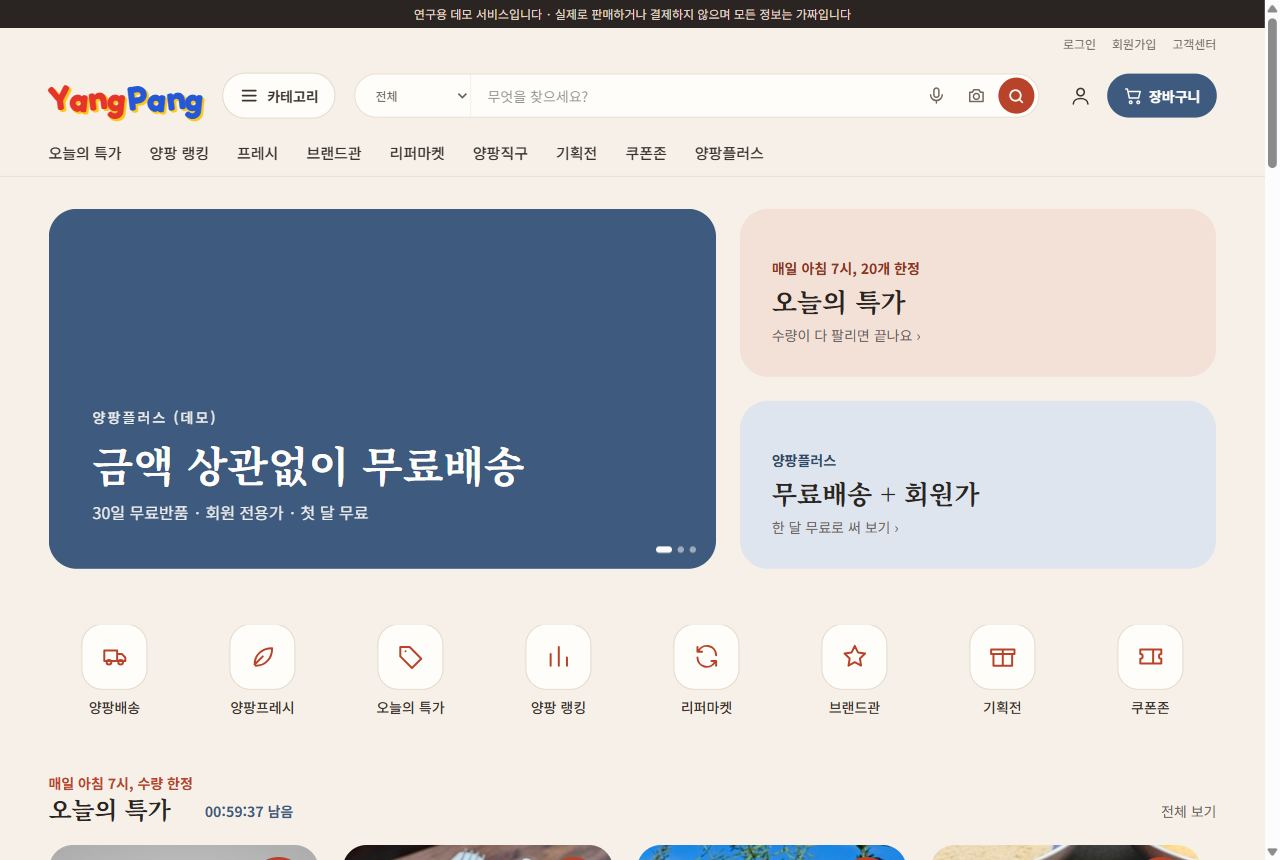
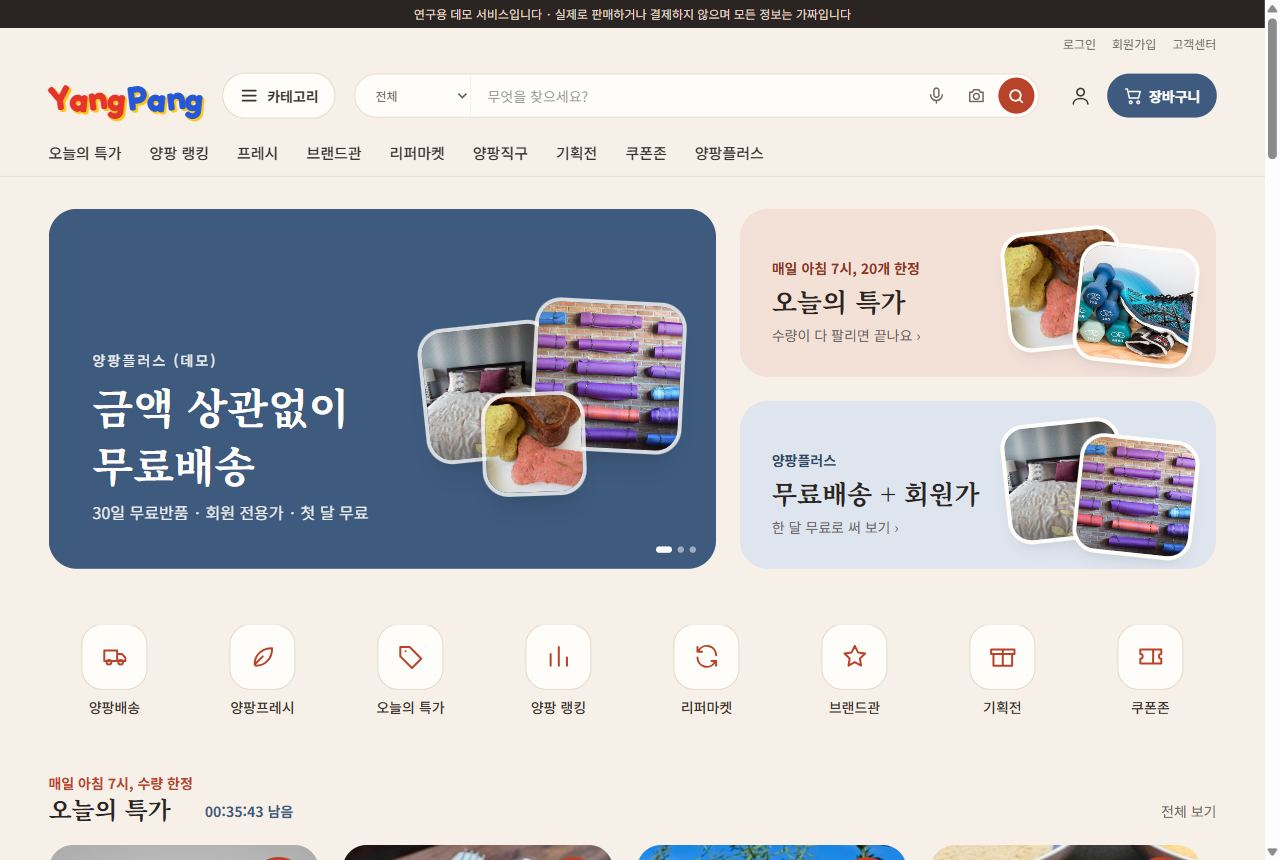
글자만 있던 자리에 상품 사진 (배너·카테고리·기획전·브랜드·전문관 머리)
- Visuals(@visuals): 연결된 실제 상품 사진을 골라 씀 (배너 링크·기획전·브랜드·대분류별), 중복 없이, 19세 상품 제외, 10분 캐시
- 홈: 큰 배너 펼친 사진, 특가·플러스 카드 사진, 카테고리 사진 타일, 기획전 카드 사진 띠
- 기획전 목록·상세, 브랜드관·브랜드 상세, 플러스·프레시·직구·리퍼 머리에 사진
- 공통 조각 fragments/visual (fan·strip·row)
- 어색한 강아지 간식 사진 1장 제외 (473장), README 스크린샷 갱신·추가

diff --git a/api/src/main/resources/templates/home.html b/api/src/main/resources/templates/home.html
@@ -14,25 +14,41 @@
         <div class="grid gap-4 md:grid-cols-[7fr_5fr] md:gap-6">
             <div class="relative overflow-hidden rounded-[26px] md:rounded-[28px]" data-carousel>
                 <div class="no-scrollbar flex snap-x snap-mandatory overflow-x-auto scroll-smooth" data-carousel-track>
-                    <a th:each="b : ${banners}" th:href="${b.linkUrl}"
-                       class="flex h-52 w-full shrink-0 snap-start flex-col justify-end bg-gradient-to-r p-6 text-white md:h-[360px] md:p-11" th:classappend="${b.theme.gradient()}">
-                        <p th:if="${b.caption != null}" class="text-xs font-medium tracking-[0.15em] opacity-90 md:text-sm" th:text="${b.caption}">문구</p>
-                        <p class="mt-2 font-serif text-[26px] font-bold leading-snug md:text-[42px]" th:text="${b.title}">제목</p>
-                        <p th:if="${b.subtitle != null}" class="mt-2 text-sm opacity-90 md:text-base" th:text="${b.subtitle}">설명</p>
+                    <a th:each="b : ${banners}" th:href="${b.linkUrl}" th:with="pics=${@visuals.forLink(b.linkUrl, 3)}"
+                       class="relative flex h-52 w-full shrink-0 snap-start items-end overflow-hidden bg-gradient-to-r p-6 text-white md:h-[360px] md:p-11" th:classappend="${b.theme.gradient()}">
+                        <!-- 배너가 가리키는 곳의 상품 사진 (PC: 펼친 카드 3장, 모바일: 한 장) -->
+                        <div class="absolute right-10 top-1/2 hidden -translate-y-1/2 lg:block"><div th:replace="~{fragments/visual :: fan(${pics}, 'md')}"></div></div>
+                        <img th:if="${!#lists.isEmpty(pics)}" th:src="${pics[0]}" alt="" aria-hidden="true" loading="lazy"
+                             class="absolute -right-4 -top-3 h-32 w-32 rotate-6 rounded-[22px] object-cover opacity-95 shadow-xl ring-4 ring-white/70 lg:hidden">
+                        <div class="relative max-w-[62%] lg:max-w-[48%]">
+                            <p th:if="${b.caption != null}" class="text-xs font-medium tracking-[0.15em] opacity-90 md:text-sm" th:text="${b.caption}">문구</p>
+                            <p class="mt-2 font-serif text-[26px] font-bold leading-snug md:text-[42px]" th:text="${b.title}">제목</p>
+                            <p th:if="${b.subtitle != null}" class="mt-2 text-sm opacity-90 md:text-base" th:text="${b.subtitle}">설명</p>
+                        </div>
                     </a>
                 </div>
                 <div class="absolute bottom-4 right-5 flex gap-1.5" data-carousel-dots></div>
             </div>
             <div class="hidden grid-rows-2 gap-6 md:grid">
-                <a th:href="@{/deals}" class="flex flex-col justify-end rounded-[28px] bg-brand-100 p-8 hover:bg-brand-200/60">
-                    <span class="text-sm font-bold text-brand-700">매일 아침 7시, 20개 한정</span>
-                    <span class="mt-1 font-serif text-[26px] font-bold text-gray-900">오늘의 특가</span>
-                    <span class="mt-1 text-sm text-gray-600">수량이 다 팔리면 끝나요 ›</span>
+                <a th:href="@{/deals}" class="group relative flex flex-col justify-end overflow-hidden rounded-[28px] bg-brand-100 p-8 hover:bg-brand-200/60">
+                    <th:block th:with="pics=${@visuals.forLink('/deals', 2)}">
+                        <img th:each="u, st : ${pics}" th:src="${u}" alt="" aria-hidden="true" loading="lazy"
+                             class="absolute h-28 w-28 rounded-[20px] object-cover shadow-lg ring-4 ring-white transition group-hover:rotate-0"
+                             th:classappend="${st.first} ? 'right-24 top-6 -rotate-6' : 'right-6 top-10 rotate-6'">
+                    </th:block>
+                    <span class="relative text-sm font-bold text-brand-700">매일 아침 7시, 20개 한정</span>
+                    <span class="relative mt-1 font-serif text-[26px] font-bold text-gray-900">오늘의 특가</span>
+                    <span class="relative mt-1 text-sm text-gray-600">수량이 다 팔리면 끝나요 ›</span>
                 </a>
-                <a th:href="@{/plus}" class="flex flex-col justify-end rounded-[28px] bg-sea-100 p-8 hover:bg-sea-200/60">
-                    <span class="text-sm font-bold text-sea-700">양팡플러스</span>
-                    <span class="mt-1 font-serif text-[26px] font-bold text-gray-900">무료배송 + 회원가</span>
-                    <span class="mt-1 text-sm text-gray-600">한 달 무료로 써 보기 ›</span>
+                <a th:href="@{/plus}" class="group relative flex flex-col justify-end overflow-hidden rounded-[28px] bg-sea-100 p-8 hover:bg-sea-200/60">
+                    <th:block th:with="pics=${@visuals.forLink('/plus', 2)}">
+                        <img th:each="u, st : ${pics}" th:src="${u}" alt="" aria-hidden="true" loading="lazy"
+                             class="absolute h-28 w-28 rounded-[20px] object-cover shadow-lg ring-4 ring-white transition group-hover:rotate-0"
+                             th:classappend="${st.first} ? 'right-24 top-6 -rotate-6' : 'right-6 top-10 rotate-6'">
+                    </th:block>
+                    <span class="relative text-sm font-bold text-sea-700">양팡플러스</span>
+                    <span class="relative mt-1 font-serif text-[26px] font-bold text-gray-900">무료배송 + 회원가</span>
+                    <span class="relative mt-1 text-sm text-gray-600">한 달 무료로 써 보기 ›</span>
                 </a>
             </div>
         </div>
@@ -88,9 +104,15 @@
     <!-- 카테고리 바로가기 -->
     <th:block th:case="'CATEGORIES'"><section class="container-page mb-12 md:mb-16" aria-labelledby="home-cats">
         <h2 id="home-cats" class="section-title mb-4" th:text="${s.title}">카테고리</h2>
-        <div class="no-scrollbar -mx-4 flex gap-2 overflow-x-auto px-4 pb-1 md:mx-0 md:flex-wrap md:px-0">
-            <a th:each="top : ${categoryRoots}" th:href="@{/category/{id}(id=${top.id})}" th:text="${top.name}"
-               class="shrink-0 rounded-full bg-white px-4 py-2 text-sm text-gray-800 ring-1 ring-gray-200 hover:text-brand-700 hover:ring-brand-300">대분류</a>
+        <!-- 대분류마다 가장 많이 팔린 상품 사진 -->
+        <div class="no-scrollbar -mx-4 flex gap-3 overflow-x-auto px-4 pb-1 md:mx-0 md:grid md:grid-cols-8 md:gap-x-4 md:gap-y-6 md:px-0">
+            <a th:each="top : ${categoryRoots}" th:href="@{/category/{id}(id=${top.id})}" th:with="pic=${@visuals.category(top.id)}"
+               class="group flex w-[76px] shrink-0 flex-col items-center gap-2 md:w-auto">
+                <span class="block aspect-square w-full overflow-hidden rounded-[22px] bg-gray-100 ring-1 ring-gray-200 transition group-hover:ring-2 group-hover:ring-brand-400">
+                    <img th:if="${pic != null}" th:src="${pic}" alt="" loading="lazy" class="h-full w-full object-cover transition-transform duration-300 group-hover:scale-110">
+                </span>
+                <span class="text-center text-xs font-medium leading-tight text-gray-800 group-hover:text-brand-700 md:text-sm" th:text="${top.name}">대분류</span>
+            </a>
         </div>
     </section></th:block>
 
@@ -102,9 +124,12 @@
         </div>
         <div class="no-scrollbar -mx-4 flex gap-3 overflow-x-auto px-4 pb-1 md:mx-0 md:grid md:grid-cols-4 md:gap-6 md:px-0">
             <a th:each="e : ${exhibitions}" th:href="@{/events/{slug}(slug=${e.slug})}"
-               class="flex h-40 w-64 shrink-0 flex-col justify-end rounded-3xl bg-gradient-to-r p-6 text-white transition hover:opacity-95 md:h-48 md:w-auto" th:classappend="${e.theme.gradient()}">
-                <b class="line-clamp-2 font-serif text-xl leading-snug" th:text="${e.title}">기획전</b>
-                <p class="mt-1.5 line-clamp-1 text-xs opacity-90" th:text="${e.subtitle}"></p>
+               class="group flex w-64 shrink-0 flex-col overflow-hidden rounded-3xl text-white transition hover:-translate-y-0.5 hover:shadow-lg md:w-auto">
+                <th:block th:with="pics=${@visuals.exhibition(e.id, 3)}"><div th:replace="~{fragments/visual :: strip(${pics}, 'h-28 md:h-32')}"></div></th:block>
+                <div class="flex-1 bg-gradient-to-r p-5" th:classappend="${e.theme.gradient()}">
+                    <b class="line-clamp-2 font-serif text-xl leading-snug" th:text="${e.title}">기획전</b>
+                    <p class="mt-1.5 line-clamp-1 text-xs opacity-90" th:text="${e.subtitle}"></p>
+                </div>
             </a>
         </div>
     </section></th:block>

diff --git a/api/src/main/resources/templates/shop/events.html b/api/src/main/resources/templates/shop/events.html
@@ -22,7 +22,13 @@
         <ul class="mt-5 grid gap-4 md:grid-cols-2">
             <li th:each="e : ${events}">
                 <a th:href="@{/events/{slug}(slug=${e.slug})}"
-                   class="block rounded-xl bg-gradient-to-r p-6 text-white transition hover:opacity-95" th:classappend="${e.theme.gradient()}">
+                   class="relative flex min-h-[176px] flex-col overflow-hidden rounded-3xl bg-gradient-to-r p-6 text-white transition hover:-translate-y-0.5 hover:shadow-lg sm:flex-row sm:items-center" th:classappend="${e.theme.gradient()}">
+                    <th:block th:with="pics=${@visuals.exhibition(e.id, 3)}">
+                    <!-- 모바일: 위쪽 사진 띠 / 넓은 화면: 오른쪽 펼친 사진 -->
+                    <div class="-mx-6 -mt-6 mb-4 sm:hidden"><div th:replace="~{fragments/visual :: strip(${pics}, 'h-28')}"></div></div>
+                    <div class="absolute right-2 top-1/2 hidden -translate-y-1/2 scale-90 sm:block"><div th:replace="~{fragments/visual :: fan(${pics}, 'md')}"></div></div>
+                    </th:block>
+                    <div class="relative sm:max-w-[58%]">
                     <p class="text-xs font-semibold opacity-80" th:text="${@fmt.date(e.startsAt)} + ' ~ ' + ${@fmt.date(e.endsAt)}"></p>
                     <h2 class="mt-1 text-xl font-black" th:text="${e.title}">기획전</h2>
                     <p class="mt-1 text-sm opacity-90" th:text="${e.subtitle}"></p>
@@ -30,6 +36,7 @@
                         <span th:text="'상품 ' + ${productCounts.getOrDefault(e.id, 0L)} + '개'"></span>
                         <span th:if="${e.couponId != null}" class="ml-1 rounded bg-white/25 px-1.5 py-0.5">🎟 전용 쿠폰</span>
                     </p>
+                    </div>
                 </a>
             </li>
         </ul>

diff --git a/api/src/main/resources/templates/shop/brands.html b/api/src/main/resources/templates/shop/brands.html
@@ -9,10 +9,11 @@
         <p class="mt-1 text-sm text-gray-500">많이 팔린 브랜드 순 · 모든 브랜드는 연구용 가짜 브랜드예요</p>
         <ul class="mt-5 grid grid-cols-2 gap-3 sm:grid-cols-3 md:grid-cols-4 lg:grid-cols-6">
             <li th:each="b : ${brands}">
-                <a th:href="@{/brands/{id}(id=${b.id})}" class="flex h-full flex-col items-center rounded-lg border border-gray-200 p-4 text-center hover:border-brand-500">
-                    <span class="flex h-14 w-14 items-center justify-center rounded-full bg-brand-50 text-xl font-black text-brand-700" th:text="${b.initial()}">브</span>
-                    <b class="mt-2 text-sm" th:text="${b.name}">브랜드</b>
-                    <span class="mt-0.5 text-xs text-gray-500" th:text="'상품 ' + ${b.products} + '개' + (${b.rating != null} ? ' · ★' + ${b.rating} : '')"></span>
+                <a th:href="@{/brands/{id}(id=${b.id})}" class="group flex h-full flex-col overflow-hidden rounded-2xl bg-white text-center ring-1 ring-gray-200 transition hover:-translate-y-0.5 hover:shadow-md hover:ring-brand-400">
+                    <th:block th:with="pics=${@visuals.brand(b.id, 3)}"><div th:replace="~{fragments/visual :: strip(${pics}, 'h-20 sm:h-24')}"></div></th:block>
+                    <span class="mx-auto -mt-6 flex h-12 w-12 items-center justify-center rounded-full bg-white text-lg font-black text-brand-700 shadow ring-2 ring-brand-100" th:text="${b.initial()}">브</span>
+                    <b class="mt-1.5 px-2 text-sm" th:text="${b.name}">브랜드</b>
+                    <span class="mb-3 mt-0.5 text-xs text-gray-500" th:text="'상품 ' + ${b.products} + '개' + (${b.rating != null} ? ' · ★' + ${b.rating} : '')"></span>
                 </a>
             </li>
         </ul>

diff --git a/api/src/main/resources/templates/fragments/visual.html b/api/src/main/resources/templates/fragments/visual.html
@@ -1,0 +1,27 @@
+<!DOCTYPE html>
+<html lang="ko" xmlns:th="http://www.thymeleaf.org">
+<body>
+<!-- 사진과 함께 쓰는 공통 조각. 사진은 @visuals가 연결된 상품에서 고른다 (장식용이라 alt는 비움) -->
+
+<!-- 겹쳐 펼친 사진 카드 3장 (배너·전문관 머리 오른쪽). size: 'lg'(배너) / 'md'(머리) -->
+<div th:fragment="fan(urls, size)" class="pointer-events-none relative" aria-hidden="true"
+     th:classappend="${size == 'lg'} ? 'h-[250px] w-[340px]' : 'h-[170px] w-[250px]'">
+    <img th:each="u, st : ${urls}" th:src="${u}" alt="" loading="lazy"
+         class="absolute rounded-[22px] object-cover shadow-xl ring-4 ring-white/80"
+         th:classappend="${size == 'lg'}
+            ? (${st.index == 0} ? 'left-0 top-10 h-44 w-44 -rotate-6' : (${st.index == 1} ? 'left-[150px] top-0 z-10 h-52 w-52 rotate-3' : 'left-[80px] top-[120px] z-20 h-32 w-32 -rotate-2'))
+            : (${st.index == 0} ? 'left-0 top-6 h-32 w-32 -rotate-6' : (${st.index == 1} ? 'left-[110px] top-0 z-10 h-36 w-36 rotate-3' : 'left-[60px] top-[92px] z-20 h-24 w-24 -rotate-2'))"
+         th:if="${st.index < 3}">
+</div>
+
+<!-- 사진 세 칸 띠 (카드 윗부분) -->
+<div th:fragment="strip(urls, height)" class="grid grid-cols-3 gap-0.5" th:classappend="${height}" aria-hidden="true">
+    <img th:each="u : ${urls}" th:src="${u}" alt="" loading="lazy" class="h-full w-full object-cover">
+</div>
+
+<!-- 작은 사진 줄 (모바일 머리 등) -->
+<div th:fragment="row(urls)" class="flex gap-2" aria-hidden="true">
+    <img th:each="u : ${urls}" th:src="${u}" alt="" loading="lazy" class="h-14 w-14 rounded-xl object-cover ring-2 ring-white/70">
+</div>
+</body>
+</html>

diff --git a/api/src/main/resources/templates/shop/global.html b/api/src/main/resources/templates/shop/global.html
@@ -4,8 +4,9 @@
 <head><title>양팡직구 - YangPang</title></head>
 <body>
 <main class="flex-1">
-    <section class="bg-gradient-to-r from-sea-700 to-sea-500 py-8 text-white md:py-10">
-        <div class="container-page">
+    <section class="relative overflow-hidden bg-gradient-to-r from-sea-700 to-sea-500 py-8 text-white md:py-10 lg:py-14">
+        <div class="absolute right-[8%] top-1/2 hidden -translate-y-1/2 lg:block"><th:block th:with="pics=${@visuals.forLink('/global', 3)}"><div th:replace="~{fragments/visual :: fan(${pics}, 'md')}"></div></th:block></div>
+        <div class="container-page relative">
             <p class="text-sm font-semibold opacity-90">🌏 양팡직구</p>
             <h1 class="mt-1 text-2xl font-black md:text-4xl">해외 상품을 국내 배송처럼</h1>
             <p class="mt-2 text-sm opacity-90"><b th:text="${arrival}">도착 예정</b> · <span th:text="|${#numbers.formatInteger(policy['SHIPPING_FREE_THRESHOLD'], 1, 'COMMA')}원 이상 무료배송|">무료배송</span>(플러스 회원 항상 무료) ·

diff --git a/api/src/main/resources/templates/shop/fresh.html b/api/src/main/resources/templates/shop/fresh.html
@@ -4,8 +4,9 @@
 <head><title>양팡프레시 - YangPang</title></head>
 <body>
 <main class="flex-1">
-    <section class="bg-gradient-to-r from-fresh to-brand-500 py-8 text-white md:py-10">
-        <div class="container-page">
+    <section class="relative overflow-hidden bg-gradient-to-r from-fresh to-brand-500 py-8 text-white md:py-10 lg:py-14">
+        <div class="absolute right-[8%] top-1/2 hidden -translate-y-1/2 lg:block"><th:block th:with="pics=${@visuals.forLink('/fresh', 3)}"><div th:replace="~{fragments/visual :: fan(${pics}, 'md')}"></div></th:block></div>
+        <div class="container-page relative">
             <p class="text-sm font-semibold opacity-90">🥬 양팡프레시</p>
             <h1 class="mt-1 text-2xl font-black md:text-4xl">밤 12시까지 주문하면 내일 아침 7시 전 도착</h1>
             <p class="mt-2 text-sm opacity-90"><b th:text="${arrival}">내일 새벽 도착</b> · <span th:text="${cutoff}"></span> · 신선식품은 냉장·냉동 포장으로 문 앞에</p>

diff --git a/api/src/main/resources/templates/shop/event.html b/api/src/main/resources/templates/shop/event.html
@@ -4,8 +4,9 @@
 <head><title>기획전 - YangPang</title></head>
 <body>
 <main class="flex-1">
-    <section class="bg-gradient-to-r py-10 text-white md:py-14" th:classappend="${e.theme.gradient()}">
-        <div class="container-page">
+    <section class="relative overflow-hidden bg-gradient-to-r py-10 text-white md:py-14" th:classappend="${e.theme.gradient()}">
+        <div class="absolute right-[8%] top-1/2 hidden -translate-y-1/2 lg:block"><th:block th:with="pics=${@visuals.exhibition(e.id, 3)}"><div th:replace="~{fragments/visual :: fan(${pics}, 'lg')}"></div></th:block></div>
+        <div class="container-page relative">
             <p class="text-xs font-semibold opacity-80"><a th:href="@{/events}" class="hover:underline">기획전</a> ›
                 <span th:text="${@fmt.date(e.startsAt)} + ' ~ ' + ${@fmt.date(e.endsAt)}"></span></p>
             <h1 class="mt-2 text-3xl font-black md:text-5xl" th:text="${e.title}">기획전</h1>

diff --git a/api/src/main/resources/templates/plus/landing.html b/api/src/main/resources/templates/plus/landing.html
@@ -6,8 +6,9 @@
 </head>
 <body>
 <main class="flex-1">
-    <section class="bg-gradient-to-r from-plus to-indigo-500 py-12 text-white md:py-16">
-        <div class="container-page">
+    <section class="relative overflow-hidden bg-gradient-to-r from-plus to-indigo-500 py-12 text-white md:py-16">
+        <div class="absolute right-[8%] top-1/2 hidden -translate-y-1/2 lg:block"><th:block th:with="pics=${@visuals.forLink('/plus', 3)}"><div th:replace="~{fragments/visual :: fan(${pics}, 'lg')}"></div></th:block></div>
+        <div class="container-page relative">
             <p class="text-sm font-semibold opacity-90">양팡플러스 (연구용 데모 · 실제 청구 없음)</p>
             <h1 class="mt-2 text-3xl font-black md:text-5xl">금액 상관없이 무료배송</h1>
             <p class="mt-3 opacity-90">월 <b th:text="${#numbers.formatInteger(fee, 1, 'COMMA')}">7,890</b>원 · 첫 달 무료 · 언제든 2단계로 해지</p>

diff --git a/api/src/main/resources/templates/shop/refurb.html b/api/src/main/resources/templates/shop/refurb.html
@@ -4,8 +4,9 @@
 <head><title>리퍼마켓 - YangPang</title></head>
 <body>
 <main class="flex-1">
-    <section class="bg-gradient-to-r from-gray-900 to-gray-700 py-8 text-white">
-        <div class="container-page">
+    <section class="relative overflow-hidden bg-gradient-to-r from-gray-900 to-gray-700 py-8 text-white lg:py-14">
+        <div class="absolute right-[8%] top-1/2 hidden -translate-y-1/2 lg:block"><th:block th:with="pics=${@visuals.forLink('/refurb', 3)}"><div th:replace="~{fragments/visual :: fan(${pics}, 'md')}"></div></th:block></div>
+        <div class="container-page relative">
             <h1 class="text-2xl font-black md:text-3xl">♻ 리퍼마켓</h1>
             <p class="mt-1 text-sm text-gray-300">반품·파손 상품을 양팡이 검수해 등급별로 싸게 팝니다. 수량이 적어 금방 품절돼요</p>
         </div>

diff --git a/api/src/main/resources/templates/shop/brand.html b/api/src/main/resources/templates/shop/brand.html
@@ -4,8 +4,9 @@
 <head><title>브랜드관 - YangPang</title></head>
 <body>
 <main class="flex-1">
-    <section class="bg-gray-900 py-8 text-white">
-        <div class="container-page flex items-center gap-4">
+    <section class="relative overflow-hidden bg-gray-900 py-8 text-white md:py-14">
+        <div class="absolute right-10 top-1/2 hidden -translate-y-1/2 md:block"><th:block th:with="pics=${@visuals.brand(brand.id, 3)}"><div th:replace="~{fragments/visual :: fan(${pics}, 'md')}"></div></th:block></div>
+        <div class="container-page relative flex items-center gap-4">
             <span class="flex h-16 w-16 shrink-0 items-center justify-center rounded-full bg-white text-2xl font-black text-gray-900"
                   th:text="${#strings.substring(brand.name, 0, 1)}">브</span>
             <div>

diff --git a/api/src/main/java/com/yangpang/api/web/Visuals.java b/api/src/main/java/com/yangpang/api/web/Visuals.java
@@ -1,0 +1,105 @@
+package com.yangpang.api.web;
+
+import com.yangpang.api.web.product.ProductPhotos;
+import lombok.RequiredArgsConstructor;
+import org.springframework.jdbc.core.JdbcTemplate;
+import org.springframework.stereotype.Component;
+
+import java.time.Duration;
+import java.time.Instant;
+import java.util.ArrayList;
+import java.util.LinkedHashSet;
+import java.util.List;
+import java.util.Map;
+import java.util.Set;
+import java.util.concurrent.ConcurrentHashMap;
+import java.util.regex.Matcher;
+import java.util.regex.Pattern;
+
+/**
+ * 배너·기획전·카테고리·브랜드·전문관 머리에 붙일 사진을 고른다 (글자만 있던 자리를 사진과 함께).
+ * 별도 그림을 등록하지 않고 연결된 실제 상품의 사진을 쓴다 → 운영자가 새로 만든 배너·기획전에도 저절로 사진이 붙는다.
+ * 같은 카테고리 상품은 사진을 나눠 쓰므로 겹치지 않는 사진만 고른다. 19세 이상 상품은 빼고, 결과는 10분 동안 기억한다.
+ * 템플릿에서: ${@visuals.forLink(b.linkUrl, 3)}, ${@visuals.category(top.id)}, ${@visuals.brand(b.id, 3)}
+ */
+@Component("visuals")
+@RequiredArgsConstructor
+public class Visuals {
+
+    private static final Duration TTL = Duration.ofMinutes(10);
+    private static final Pattern EVENT = Pattern.compile("^/events/([\\w-]+)");
+    private static final Pattern CATEGORY = Pattern.compile("^/category/(\\d+)");
+    private static final Pattern BRAND = Pattern.compile("^/brands/(\\d+)");
+
+    private record Cached(List<String> urls, Instant at) {
+    }
+
+    private final JdbcTemplate jdbc;
+    private final ProductPhotos photos;
+    private final Map<String, Cached> cache = new ConcurrentHashMap<>();
+
+    /** 링크가 가리키는 곳의 대표 사진 n장 (플러스 → 회원가 상품, 특가 → 오늘 특가 상품, 기획전 → 그 기획전 상품 …) */
+    public List<String> forLink(String link, int n) {
+        String path = link == null ? "" : link.split("\\?")[0];
+        Matcher m;
+        if ((m = EVENT.matcher(path)).find()) return exhibitionBySlug(m.group(1), n);
+        if ((m = CATEGORY.matcher(path)).find()) return categoryPhotos(Long.parseLong(m.group(1)), n);
+        if ((m = BRAND.matcher(path)).find()) return brand(Long.parseLong(m.group(1)), n);
+        return switch (path) {
+            case "/plus" -> pick("plus", "exists (select 1 from item i join vendor_item vi on vi.item_id = i.id where i.product_id = p.id and vi.plus_price is not null)", n);
+            case "/deals" -> pick("deals", "exists (select 1 from deal d join vendor_item vi on vi.id = d.vendor_item_id join item i on i.id = vi.item_id where i.product_id = p.id and now() between d.starts_at and d.ends_at)", n);
+            case "/fresh" -> pick("fresh", "p.rep_delivery_type = 'FRESH'", n);
+            case "/global" -> pick("global", "p.rep_delivery_type = 'GLOBAL'", n);
+            case "/refurb" -> pick("refurb", "exists (select 1 from item i join vendor_item vi on vi.item_id = i.id where i.product_id = p.id and vi.item_condition <> 'NEW')", n);
+            default -> pick("popular", "true", n);
+        };
+    }
+
+    /** 대분류 대표 사진 한 장 (그 분류에서 가장 많이 팔린 상품) */
+    public String category(Long topId) {
+        List<String> urls = categoryPhotos(topId, 1);
+        return urls.isEmpty() ? null : urls.getFirst();
+    }
+
+    public List<String> categoryPhotos(Long categoryId, int n) {
+        return pick("cat:" + categoryId, "p.category_id in (select id from category_tree where top_id = " + categoryId
+                + " or mid_id = " + categoryId + " or id = " + categoryId + ")", n);
+    }
+
+    public List<String> brand(Long brandId, int n) {
+        return pick("brand:" + brandId, "p.brand_id = " + brandId, n);
+    }
+
+    public List<String> exhibition(Long exhibitionId, int n) {
+        return pick("ex:" + exhibitionId, "p.id in (select product_id from exhibition_product where exhibition_id = " + exhibitionId + ")", n);
+    }
+
+    private List<String> exhibitionBySlug(String slug, int n) {
+        List<Long> ids = jdbc.queryForList("select id from exhibition where slug = ?", Long.class, slug);
+        return ids.isEmpty() ? pick("popular", "true", n) : exhibition(ids.getFirst(), n);
+    }
+
+    /** where는 이 클래스 안에서 숫자·고정 문구로만 만든다 (사용자 입력을 넣지 않음) */
+    private List<String> pick(String key, String where, int n) {
+        String cacheKey = key + "#" + n;
+        Cached c = cache.get(cacheKey);
+        if (c != null && c.at().plus(TTL).isAfter(Instant.now())) return c.urls();
+        List<Long> ids = jdbc.queryForList("select p.id from product p where p.status = 'ON_SALE' and not p.adult and ("
+                + where + ") order by p.sales_count desc, p.id limit " + (n * 8), Long.class);
+        Set<String> urls = new LinkedHashSet<>();
+        List<String> fallback = new ArrayList<>();
+        for (Long id : ids) {
+            var photo = photos.url(id, 1);
+            if (photo.isPresent()) urls.add(photo.get());
+            else fallback.add("/images/products/" + id + "/1.svg");
+            if (urls.size() >= n) break;
+        }
+        List<String> result = new ArrayList<>(urls);
+        for (String f : fallback) {
+            if (result.size() >= n) break;
+            result.add(f);
+        }
+        cache.put(cacheKey, new Cached(List.copyOf(result), Instant.now()));
+        return result;
+    }
+}

diff --git a/yangpang.md b/yangpang.md
@@ -787,6 +787,11 @@ yangpang/
   - **상품 이미지 주소는 그대로**(`/images/products/{상품id}/{n}.svg`): 카테고리에 사진이 있으면 그 사진으로 보냄(302, 브라우저가 하루 기억). 같은 카테고리 상품끼리 사진을 나눠 쓰되 상품 id로 시작 사진을 바꿔 이웃 상품과 덜 겹치게. 사진이 없는 카테고리(운영자가 새로 만든 것)는 기존 그림. 리뷰·배송 완료 사진은 그림 그대로. 색상 옵션 상품도 사진을 씀(옵션 색은 글자로)
   - **이미지 검색을 실제 사진에 맞게 보완**: 상품 사진의 색 분포로 계산. 실제 사진은 바탕색이 비교를 좌우하므로 **사진 가장자리(바깥 1/8)에 30% 넘게 있는 색을 0.1배**로 덜 세고(올린 사진·상품 사진·색 버튼 모두), 같은 색이 색상 칸 경계에서 갈리는 것을 막으려 **이웃 색상 칸을 절반만큼** 같은 색으로 봄. "그린" 기준색을 실제 채소·식물에 흔한 초록(#4A9A3A)으로, 결과 최소 일치도 0.25 → 0.15
   - 검사(`m4_step7.py`)는 "같은 색 이름" 대신 "결과 사진에 그 색이 전체 평균보다 2.5배 이상"으로 바꿈. 이미 브라우저에 예전 그림이 기억돼 있으면 하루 동안 섞여 보일 수 있음(강력 새로고침 Ctrl+F5)
+- 2026-11-21 **M4 이후 정리 ⑤ 글자만 있던 자리에 사진** (사용자 "그림없이 글자만 휑하게 있는 것들이 많네")
+  - 따로 그림을 등록하지 않고 **연결된 실제 상품의 사진**을 씀(`Visuals`, 템플릿에서 `@visuals`): 배너는 링크가 가리키는 곳(플러스 → 회원가 상품, 특가 → 오늘 특가 상품, 프레시·직구·리퍼 → 그 상품, 기획전·카테고리·브랜드 링크 → 그 상품), 기획전 → 그 기획전 상품, 브랜드 → 그 브랜드 상품, 대분류 → 가장 많이 팔린 상품. 운영자가 새로 만든 배너·기획전에도 저절로 붙음. 같은 사진은 겹치지 않게, 19세 이상 상품은 빼고, 10분 동안 기억
+  - 바꾼 곳: 홈 큰 배너(펼친 사진 카드, 모바일은 한 장)·옆 카드 2개(특가·플러스)·카테고리(글자 버튼 → 사진 타일 16개)·기획전 카드(사진 세 칸 + 색 띠), 기획전 목록(오른쪽 펼친 사진, 모바일은 위쪽 사진 띠), 기획전 상세·플러스·프레시·직구·리퍼 머리(오른쪽 사진), 브랜드관(브랜드 인기 상품 세 칸 + 머리글자)·브랜드 상세 머리. 공통 조각 `fragments/visual`(fan·strip·row)
+  - Thymeleaf는 조각 끼우기(`th:replace`) 안에서 빈 호출을 막으므로 `th:with`로 먼저 받아 넘김
+  - 쿠폰존·출석·친구초대 카드는 쿠폰·이벤트 모양 그대로 둠. 강아지 간식 사진 중 벽돌처럼 보이는 1장은 뺌(473장)
 
 **진행 방식: 뼈대 먼저, 살은 천천히**
 - M0~M1에서 끝까지 동작하는 최소 흐름(MVP)을 먼저 완성한다
@@ -826,7 +831,7 @@ yangpang/
 
 ## 15. 현재 상태와 다음 단계 (2026-11-21 기준)
 
-**현재 상태: 기획서 범위(3.1)의 기능은 모두 구현됨.** M0~M4, 디자인 개편, YangPang 이름·로고, 고객센터·계정 찾기, 운영 기준값 관리, 출석체크·친구초대·이메일 알림(모의)·양팡설치·성인 인증·음성 검색, 카테고리별 실제 상품 사진(Pixabay 474장)까지 완료. DB 마이그레이션 V1~V31
+**현재 상태: 기획서 범위(3.1)의 기능은 모두 구현됨.** M0~M4, 디자인 개편, YangPang 이름·로고, 고객센터·계정 찾기, 운영 기준값 관리, 출석체크·친구초대·이메일 알림(모의)·양팡설치·성인 인증·음성 검색, 카테고리별 실제 상품 사진(Pixabay 473장)과 배너·기획전·카테고리·브랜드 사진 디자인까지 완료. DB 마이그레이션 V1~V31
 
 | 구분 | 내용 |
 |---|---|
